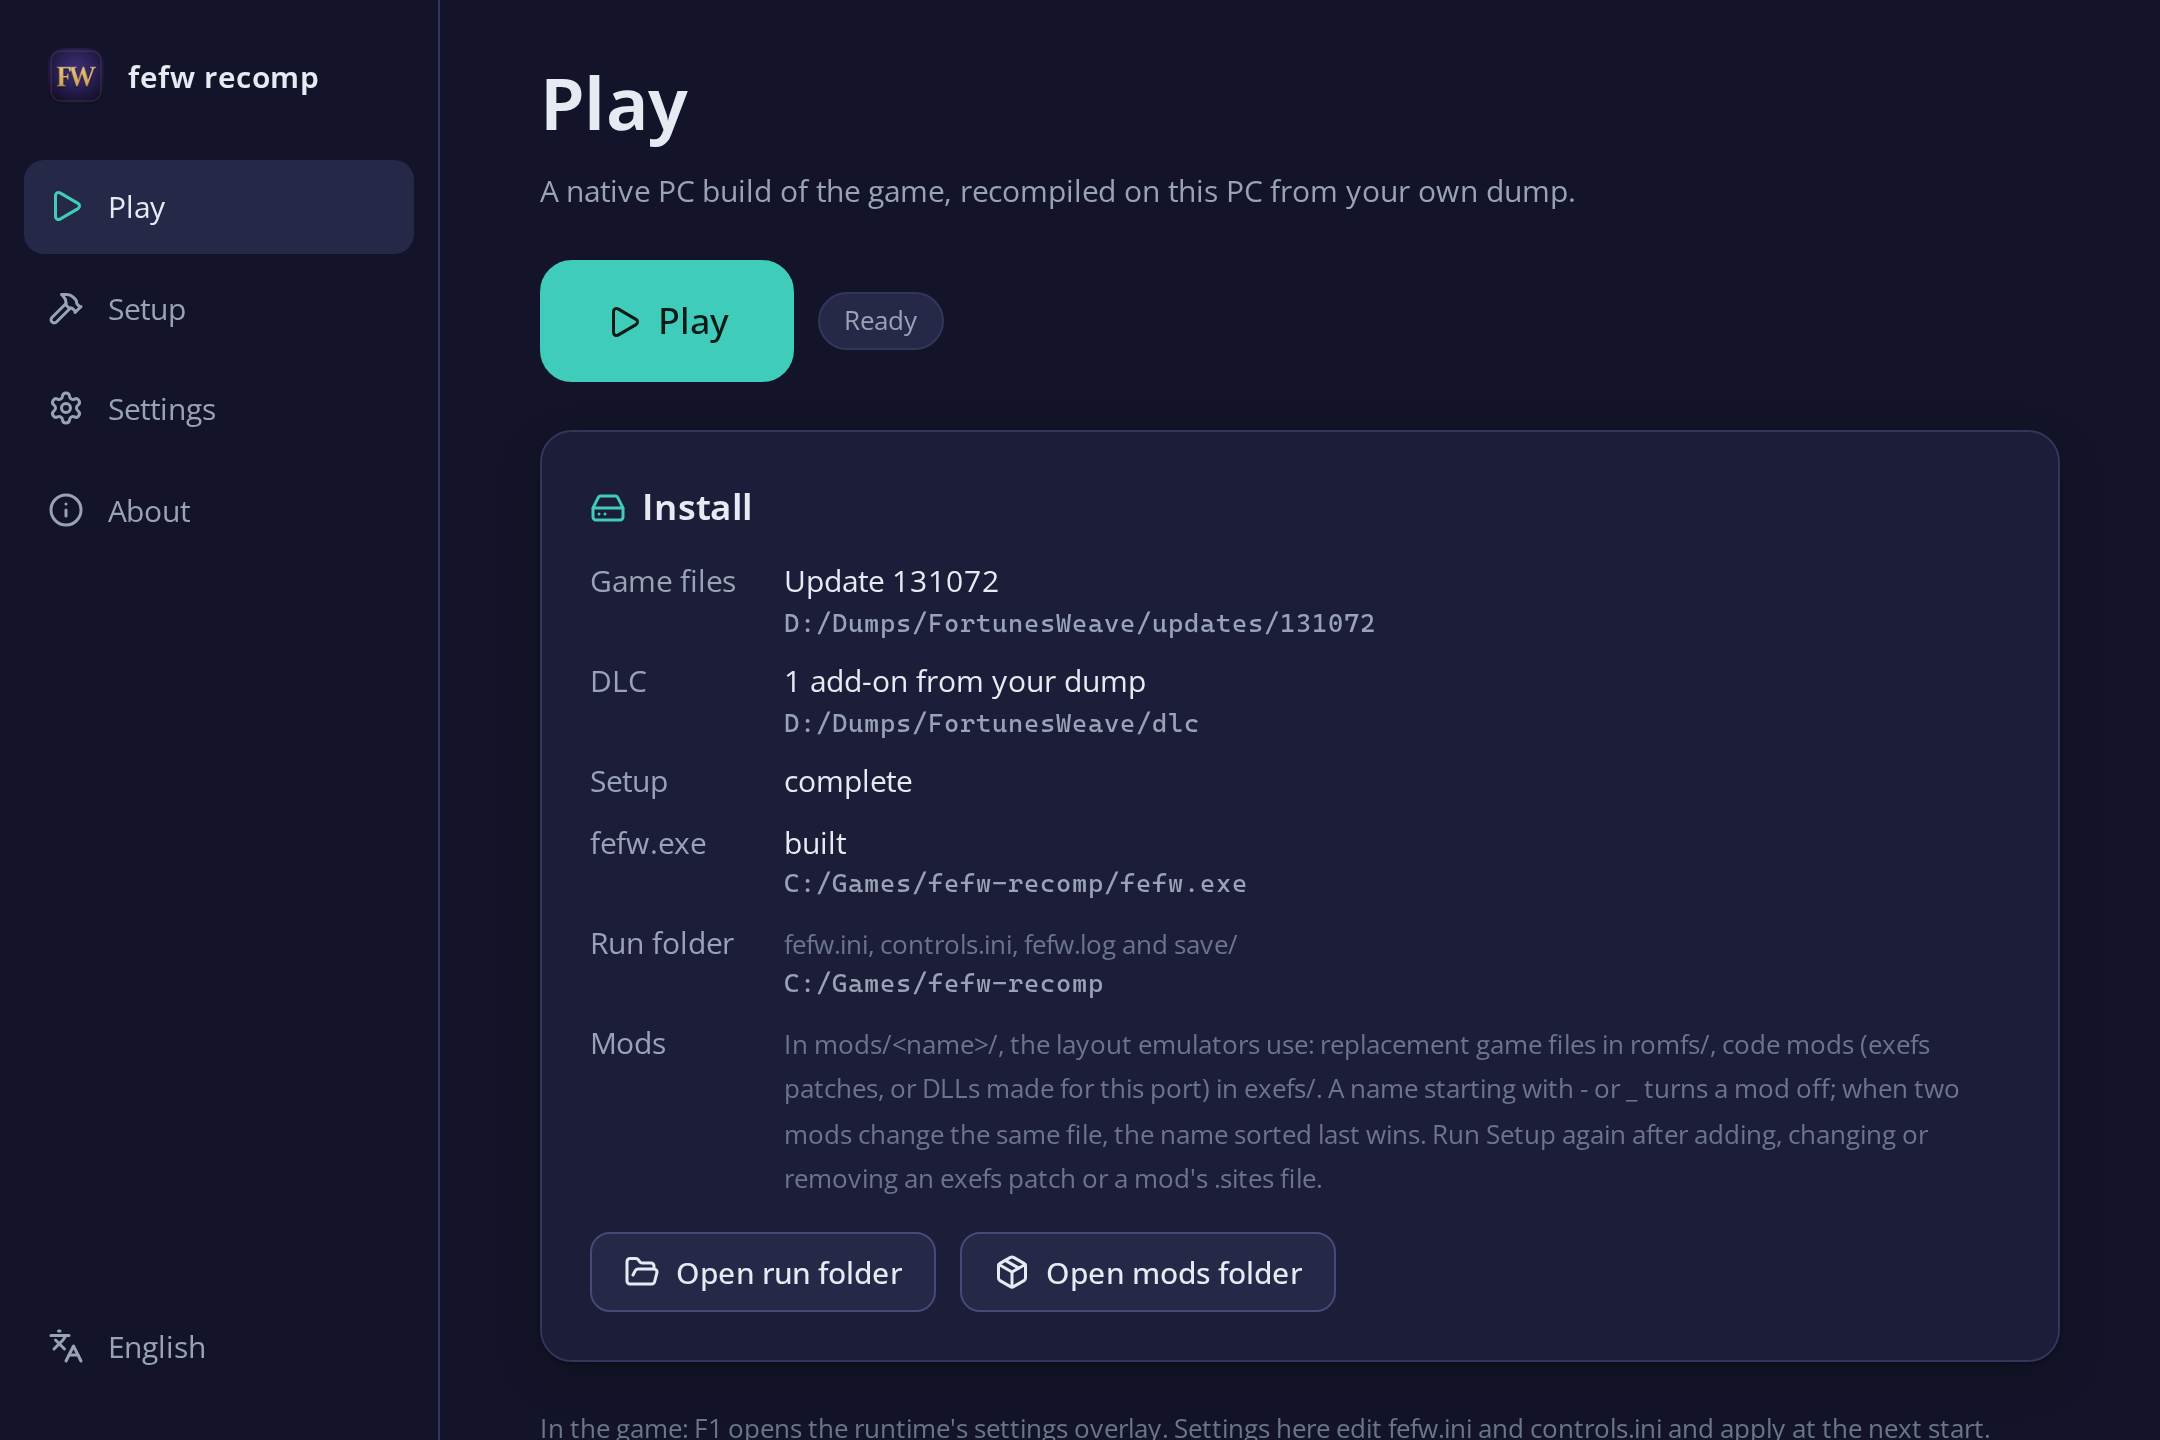
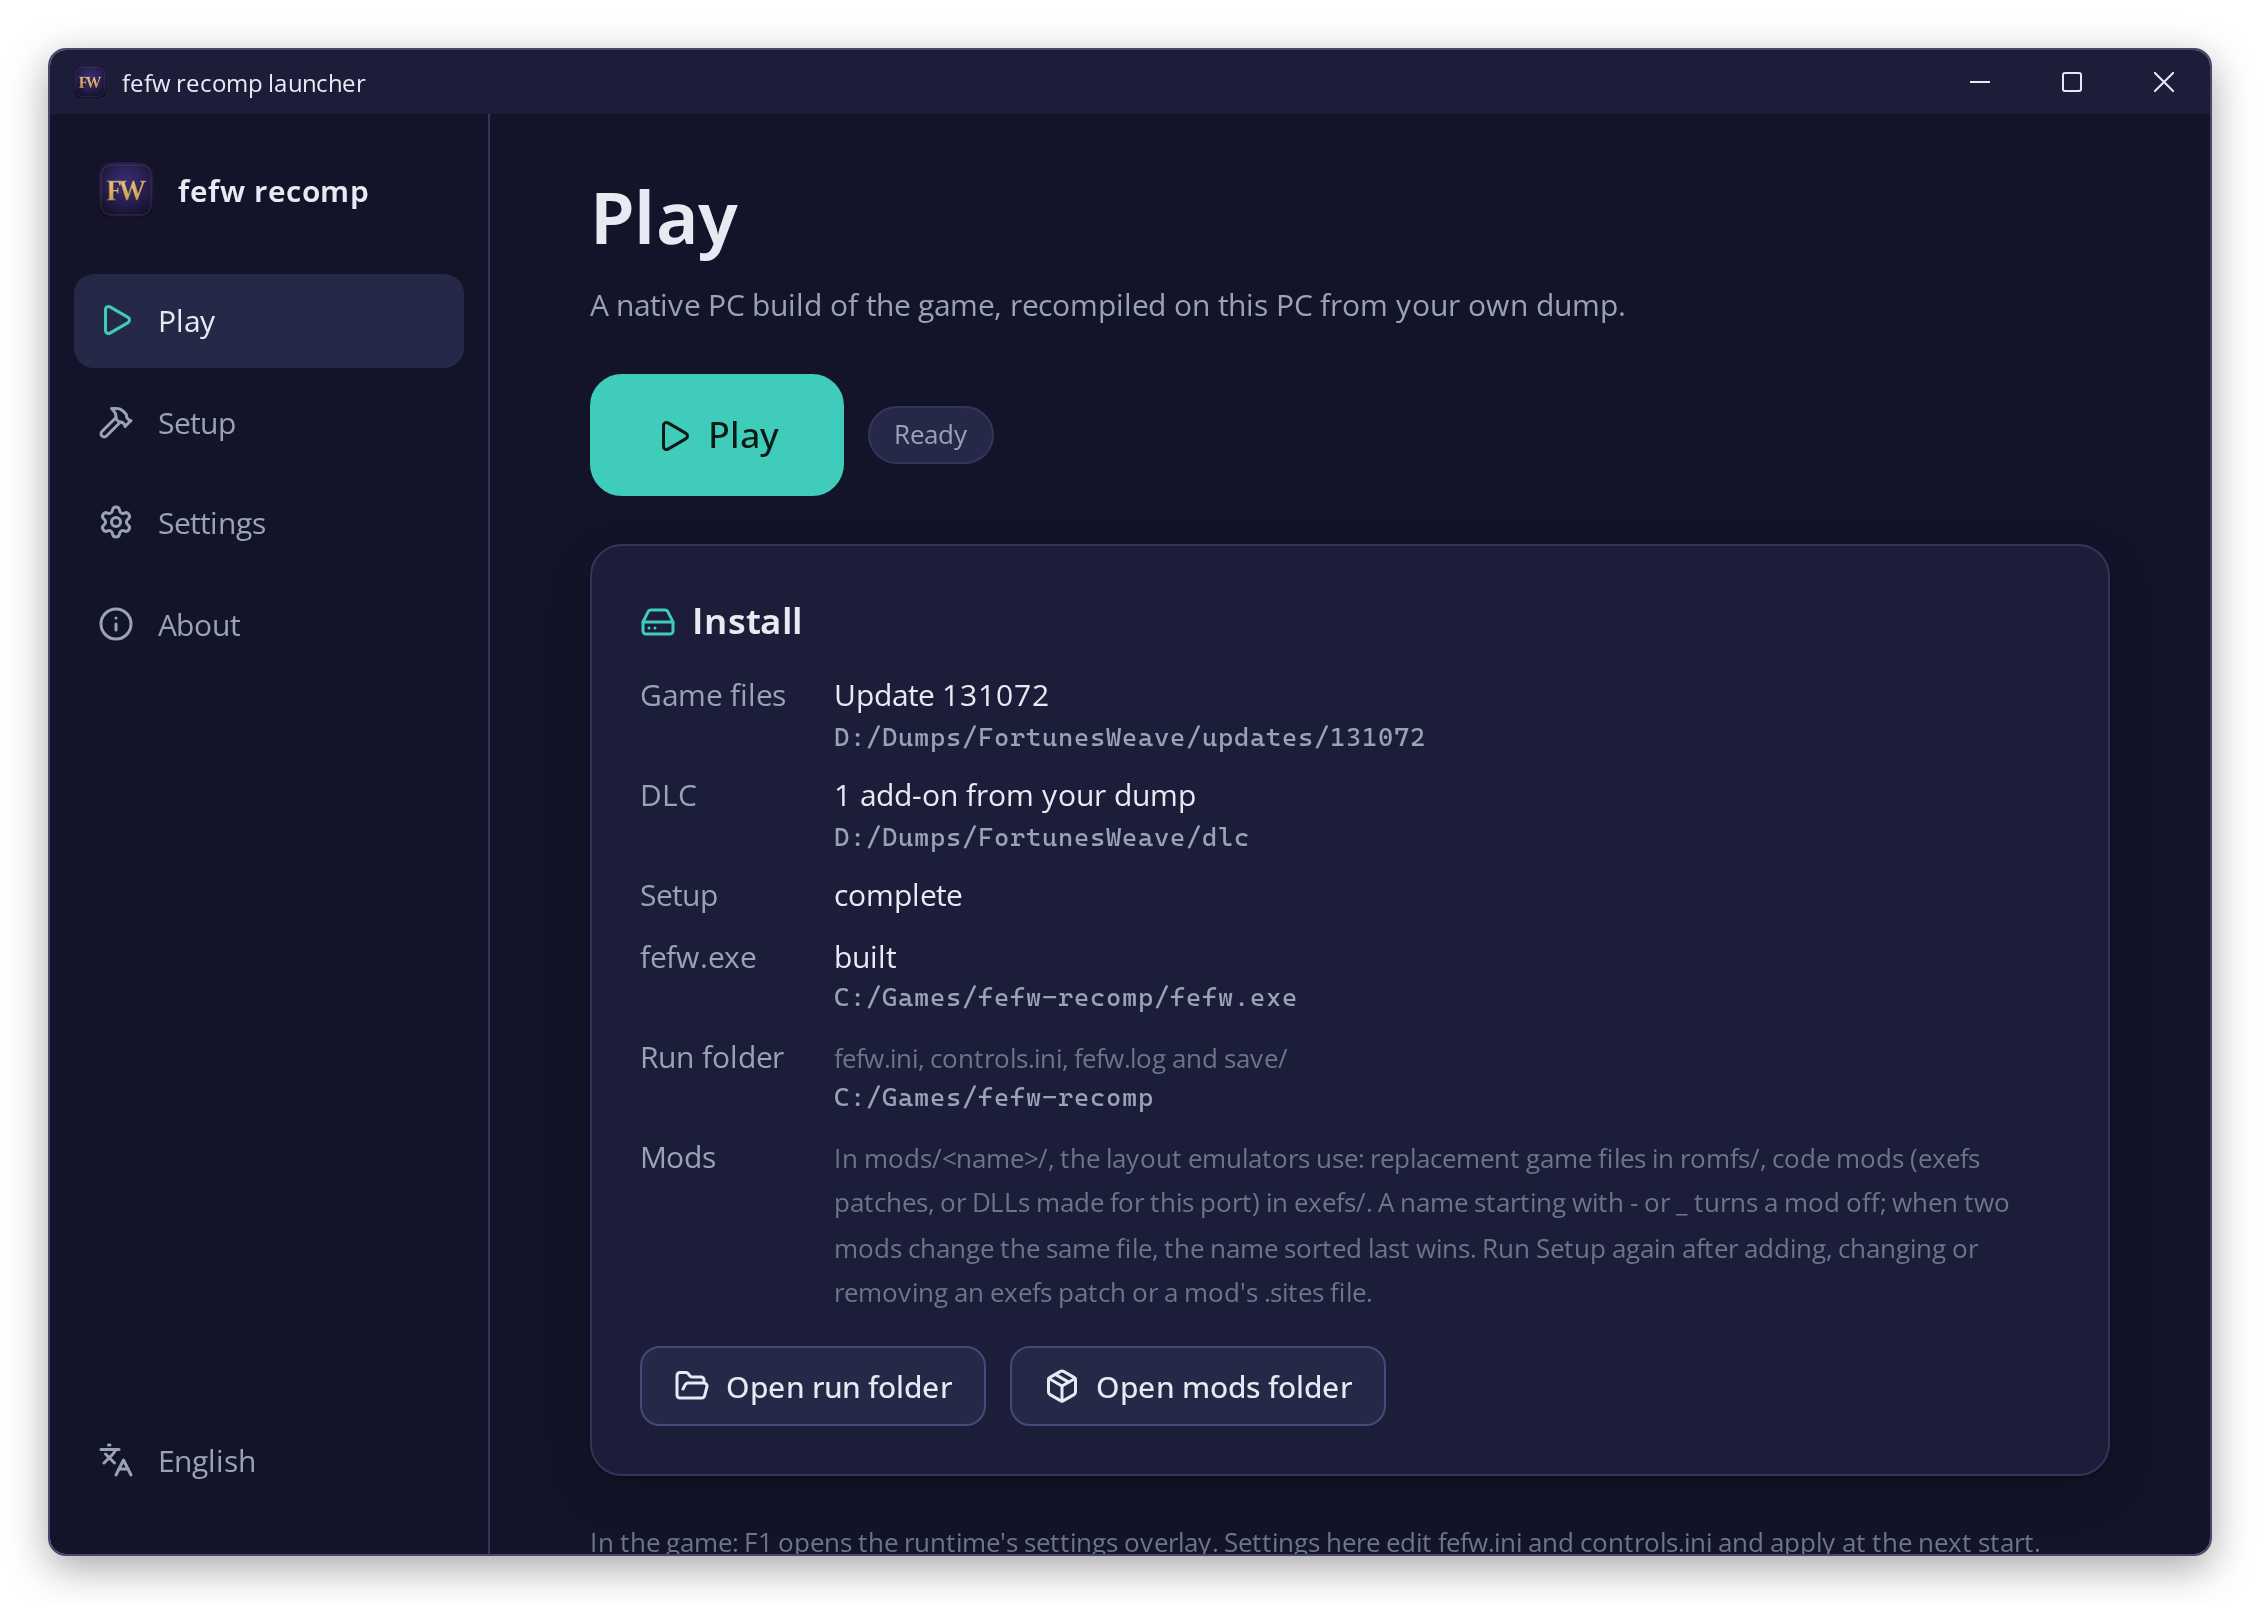
launcher: draw a window frame around the README screenshots
A Windows 11 style title bar with the launcher's icon and title, rounded
corners, a border and a soft shadow on a transparent background.

diff --git a/launcher/README.md b/launcher/README.md
@@ -13,8 +13,8 @@ own setup steps on your PC (see docs/BUILDING.md), writes `fefw.ini` in a run fo
   shortcut, leaving any picture the account already has for it.
 - README screenshots: `npm run screenshots` (once first: `npx playwright install chromium`) runs the frontend in headless
   Chromium with `screenshots/mock.js` in place of the Rust side, and writes `docs/screenshots/`. The shots are listed in
-  `screenshots/capture.mjs`. A command a shot calls that has no reply in `mock.js` fails the run. The pictures use bundled fonts,
-  so they differ a little from the window on Windows. `.github/workflows/screenshots.yml` retakes them when the frontend changes
+  `screenshots/capture.mjs`. A command a shot calls that has no reply in `mock.js` fails the run. The window frame is drawn by
+  the script and the pictures use bundled fonts, so they differ a little from the window on Windows. `.github/workflows/screenshots.yml` retakes them when the frontend changes
   on master, and opens a pull request.
 
 On a Linux handheld without the Decky plugin (a session with Steam's Game Mode in `/usr/share/wayland-sessions`, or Decky Loader
